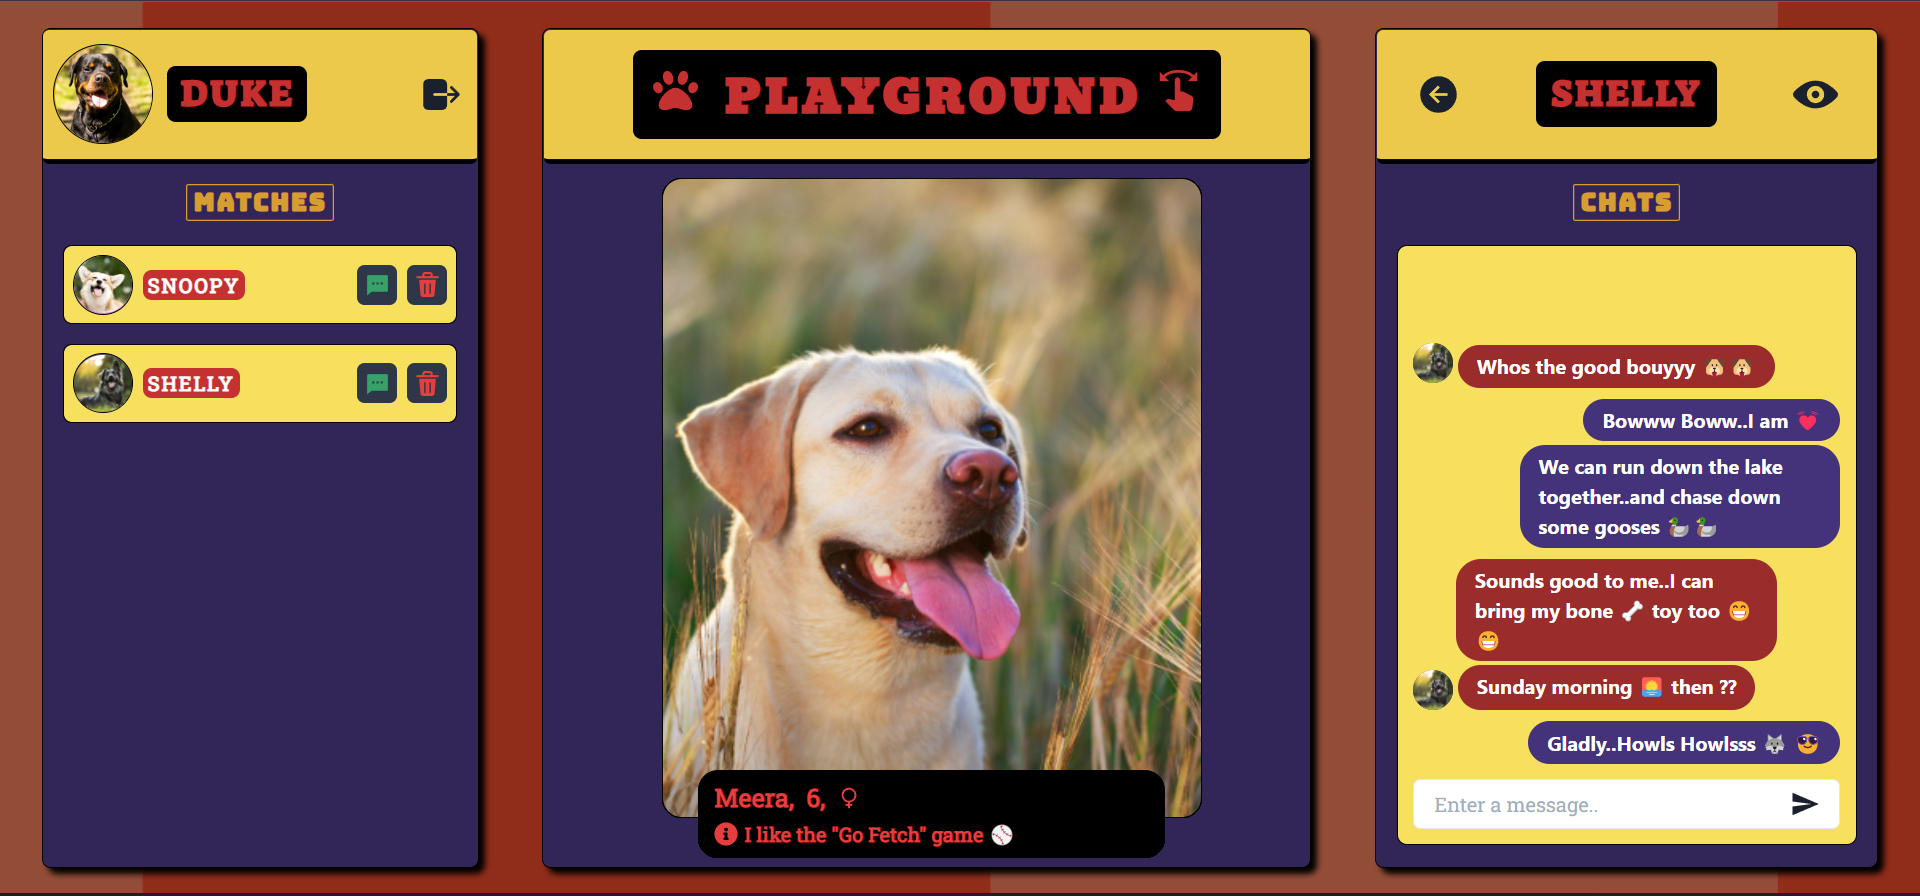
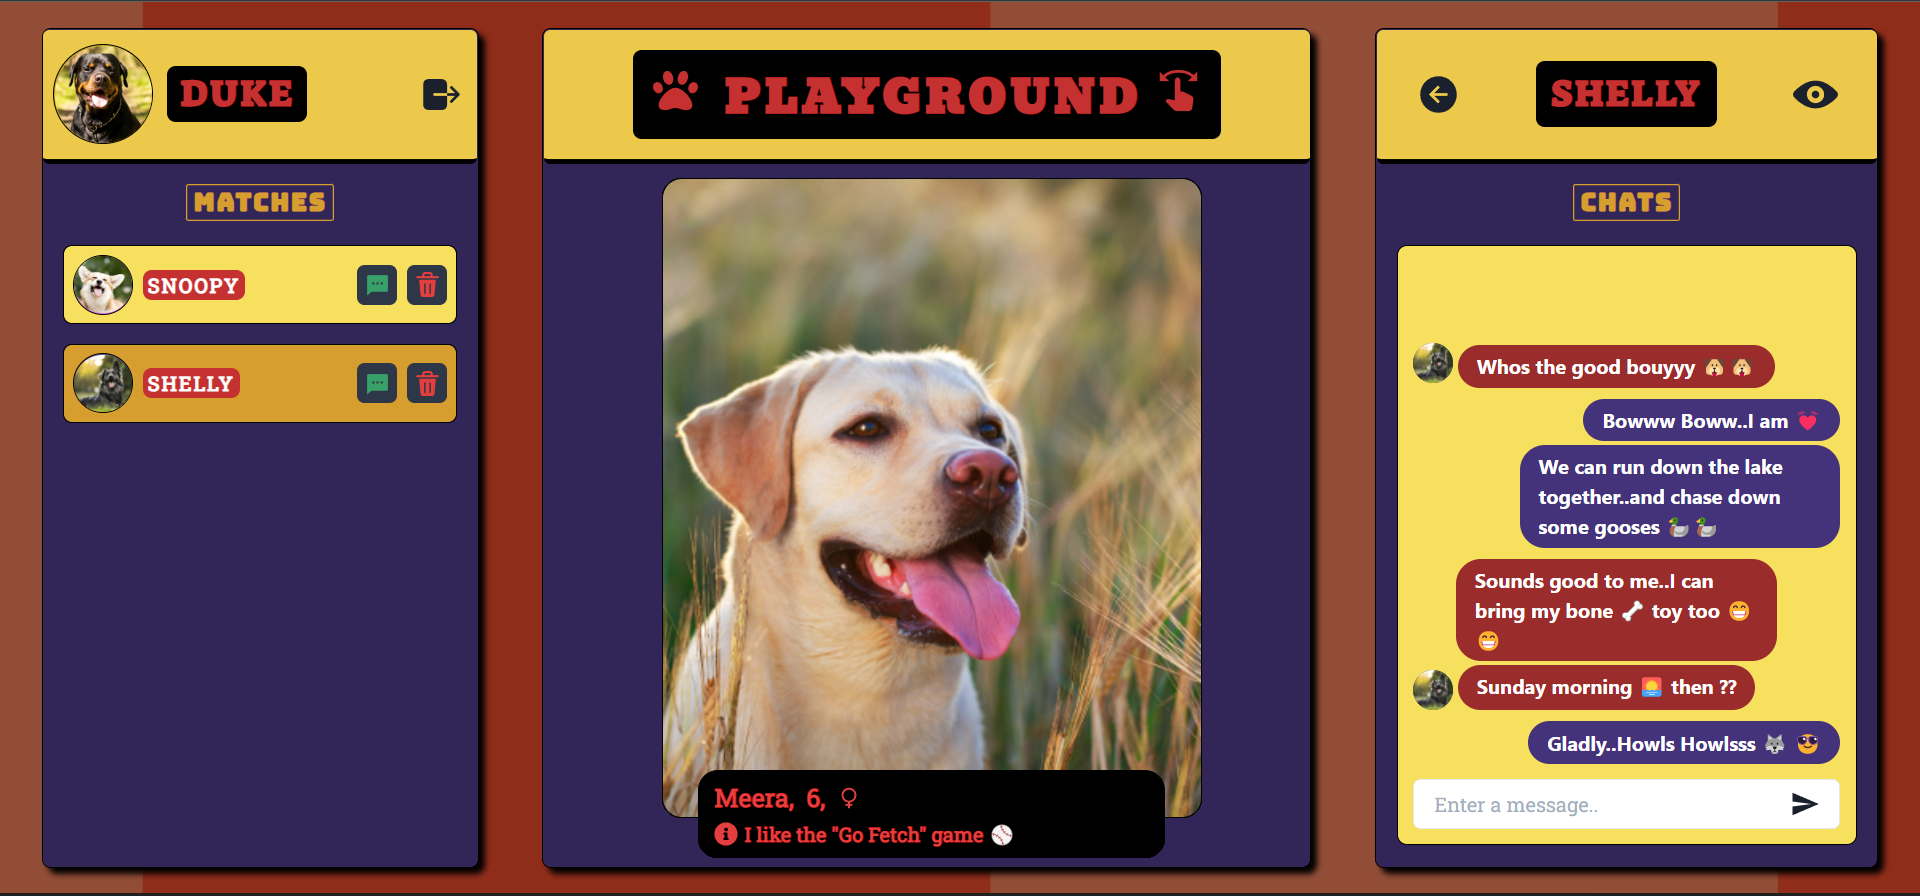
selected match and readme ui updated

Changed region(s): [[0.0312, 0.375, 0.25, 0.4688]]

diff --git a/frontend/src/components/MatchList.js b/frontend/src/components/MatchList.js
@@ -86,17 +86,19 @@ const MatchList = ({ matches, /* finalMatchedUsers */ }) => {
     >
       {filteredMatchedProfiles?.map((matchedProfile) => (
         <ListItem
+          onClick={() => setSelectedMatch(matchedProfile)}
           key={matchedProfile.user_id} //matchedProfile.user_id
           d="flex"
           alignItems="center"
           justifyContent="space-between"
           borderRadius="7px"
           border="1.5px solid black"
-          bg="yellow.300"
+          bg={selectedMatch === matchedProfile ? "yellow.500" : "yellow.300"}
           width="100%"
           p={1.5}
+          
           //cursor="pointer"
-          _hover={{ background: "yellow.400" }}
+          //_hover={{ background: "yellow.400" }}
         >
           <Box
             d="flex"
